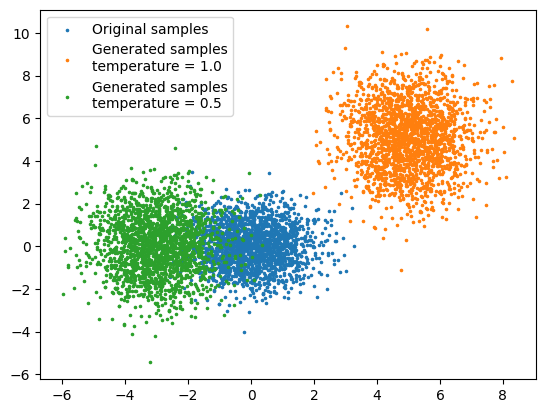
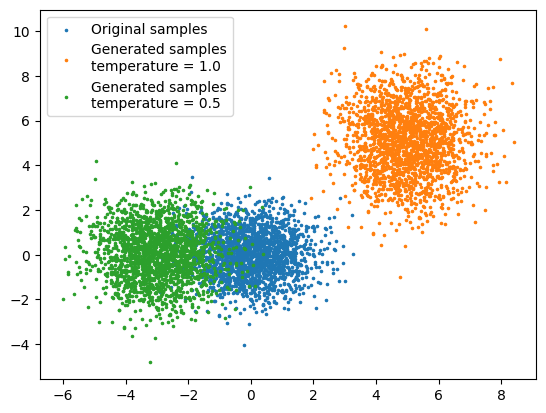
modify time-embedded diagonal affine flow

diff --git a/src/annealed_flow_transport/flows.py b/src/annealed_flow_transport/flows.py
@@ -70,6 +70,12 @@ class TimeEmbeddedDiagonalAffine(nn.Module):
   def setup(self):
     self.particle_dim = self.config.particle_dim
     self.time_embedding_dim = self.config.flow_config.time_dim
+    self.scale = self.param('scale', 
+                            nn.initializers.normal(), 
+                            (self.particle_dim,))
+    self.shift = self.param('shift', 
+                            nn.initializers.normal(), 
+                            (self.particle_dim,))
   
   @nn.compact
   def __call__(self, x: jax.Array, beta: float, 
@@ -109,11 +115,11 @@ class TimeEmbeddedDiagonalAffine(nn.Module):
     embd_beta_prev = embd_beta_prev.at[::2].set(jnp.sin(embd_beta_prev[::2]))
     embd_beta_prev = embd_beta_prev.at[1::2].set(jnp.cos(embd_beta_prev[1::2]))
 
-    time_vec = jnp.concatenate((embd_beta, embd_beta_prev))
+    x_in = jnp.concatenate((self.scale, self.shift, embd_beta, embd_beta_prev))
 
     shift, scale = jnp.split(nn.Dense(2*self.particle_dim, 
                                       kernel_init=nn.initializers.zeros, 
-                                      bias_init=nn.initializers.zeros)(time_vec), 
+                                      bias_init=nn.initializers.zeros)(x_in), 
                                       2, -1)
 
     chex.assert_shape(x, (None, self.particle_dim))

diff --git a/src/configs/special/two_gaussians.py b/src/configs/special/two_gaussians.py
@@ -35,9 +35,6 @@ def get_config():
 
   flow_config.type = 'DiagonalAffine'
   flow_config.time_dim = 10
-  flow_config.num_coupling_layers = 3
-  flow_config.num_hidden_layers_per_coupling = 2
-  flow_config.hidden_layer_dim = 5
 
   config.flow_config = flow_config
 
